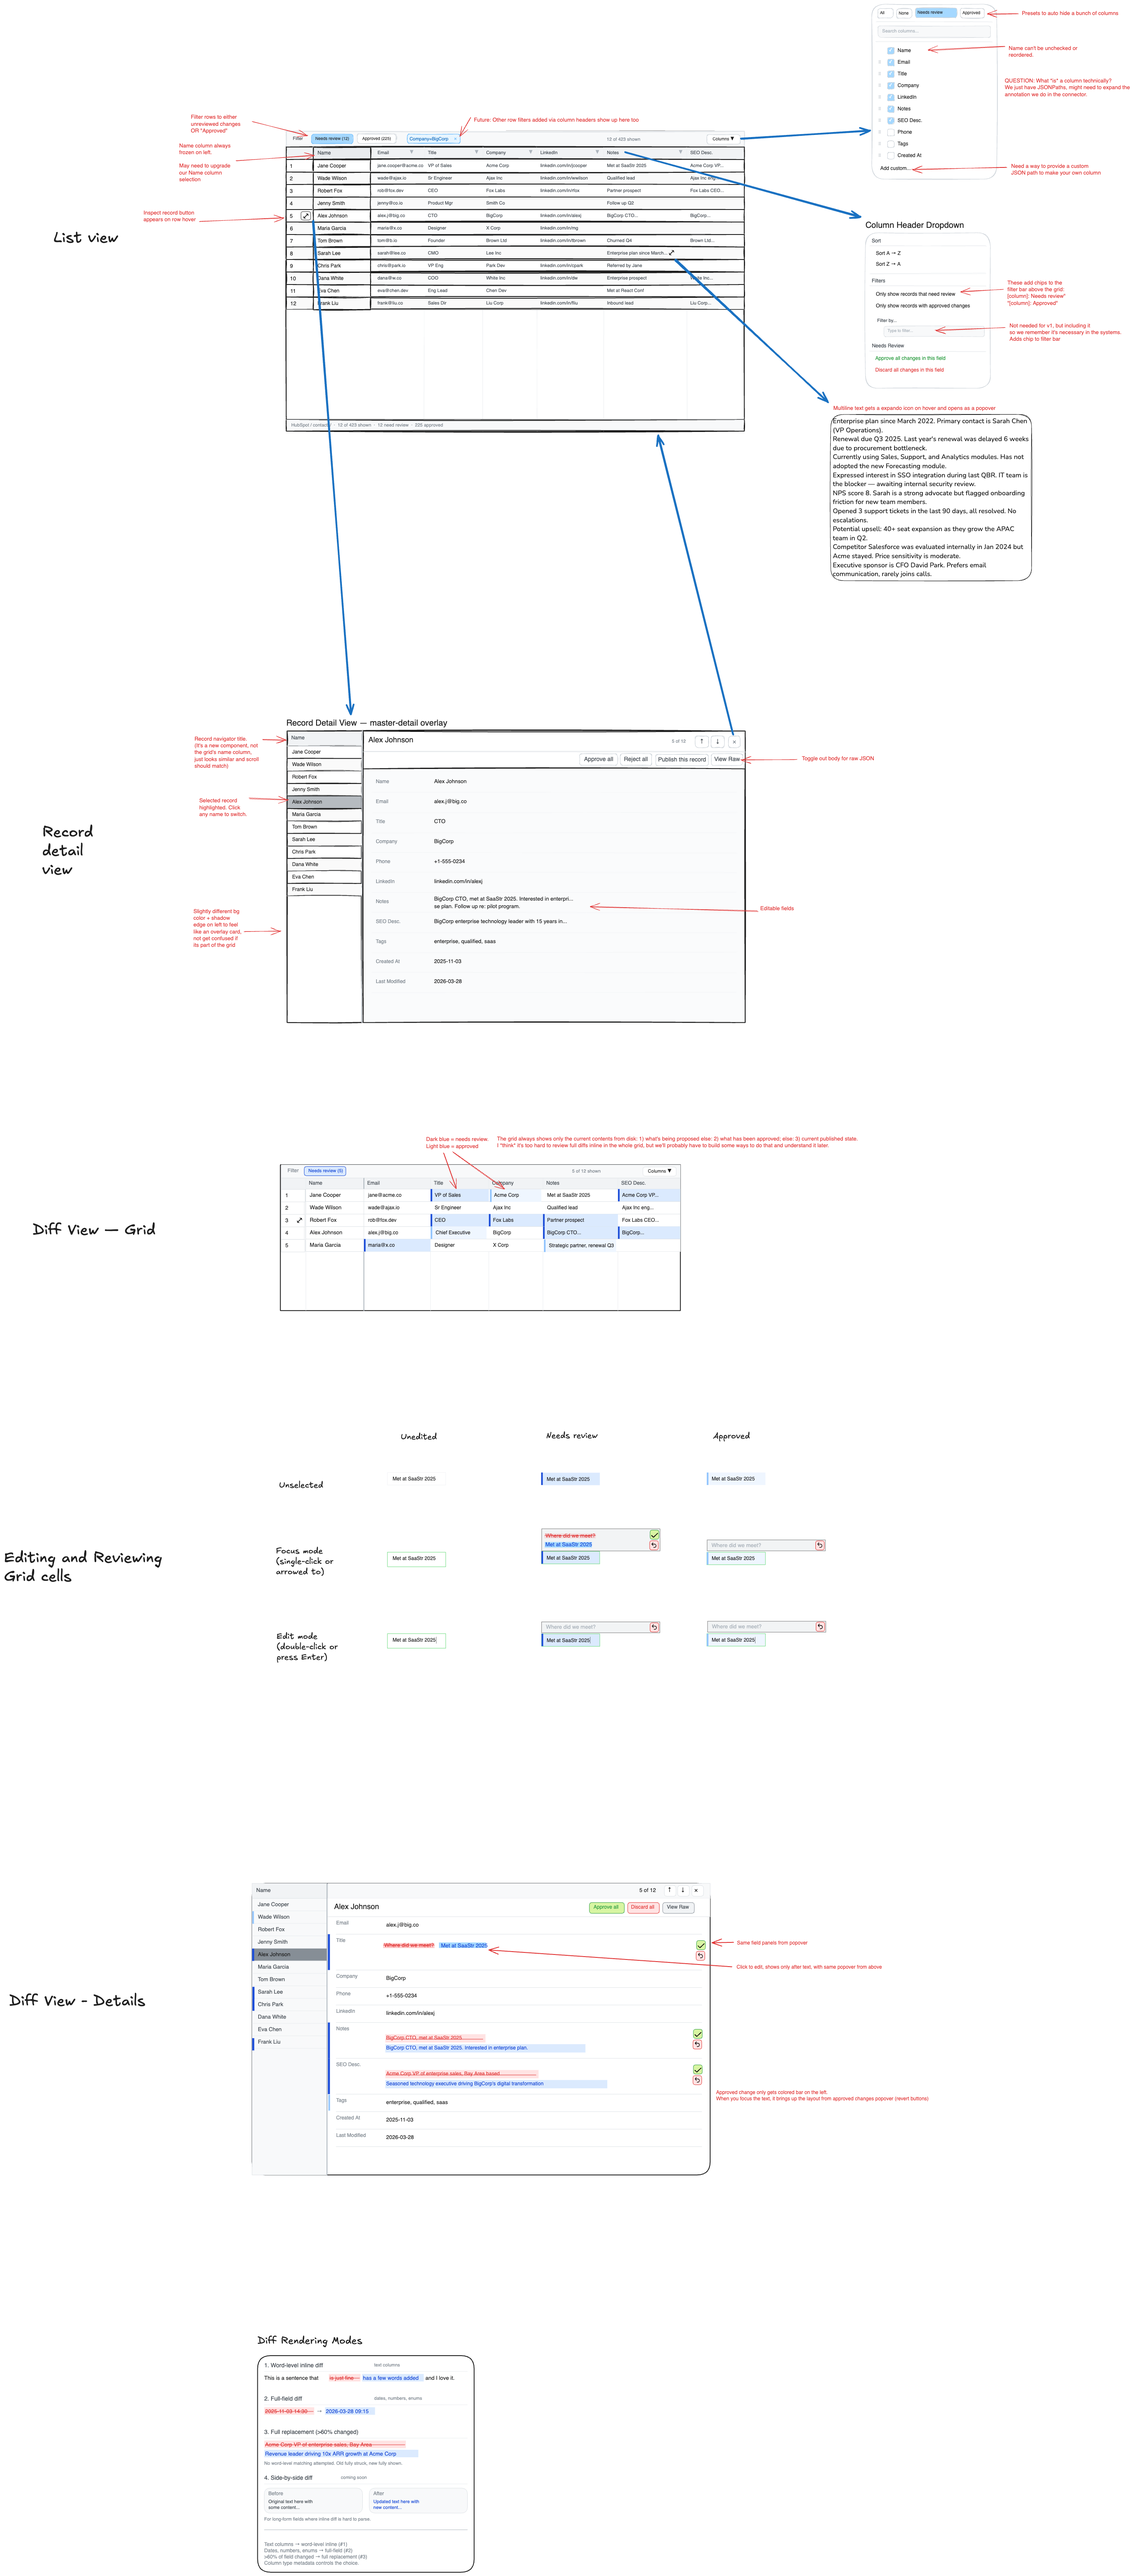
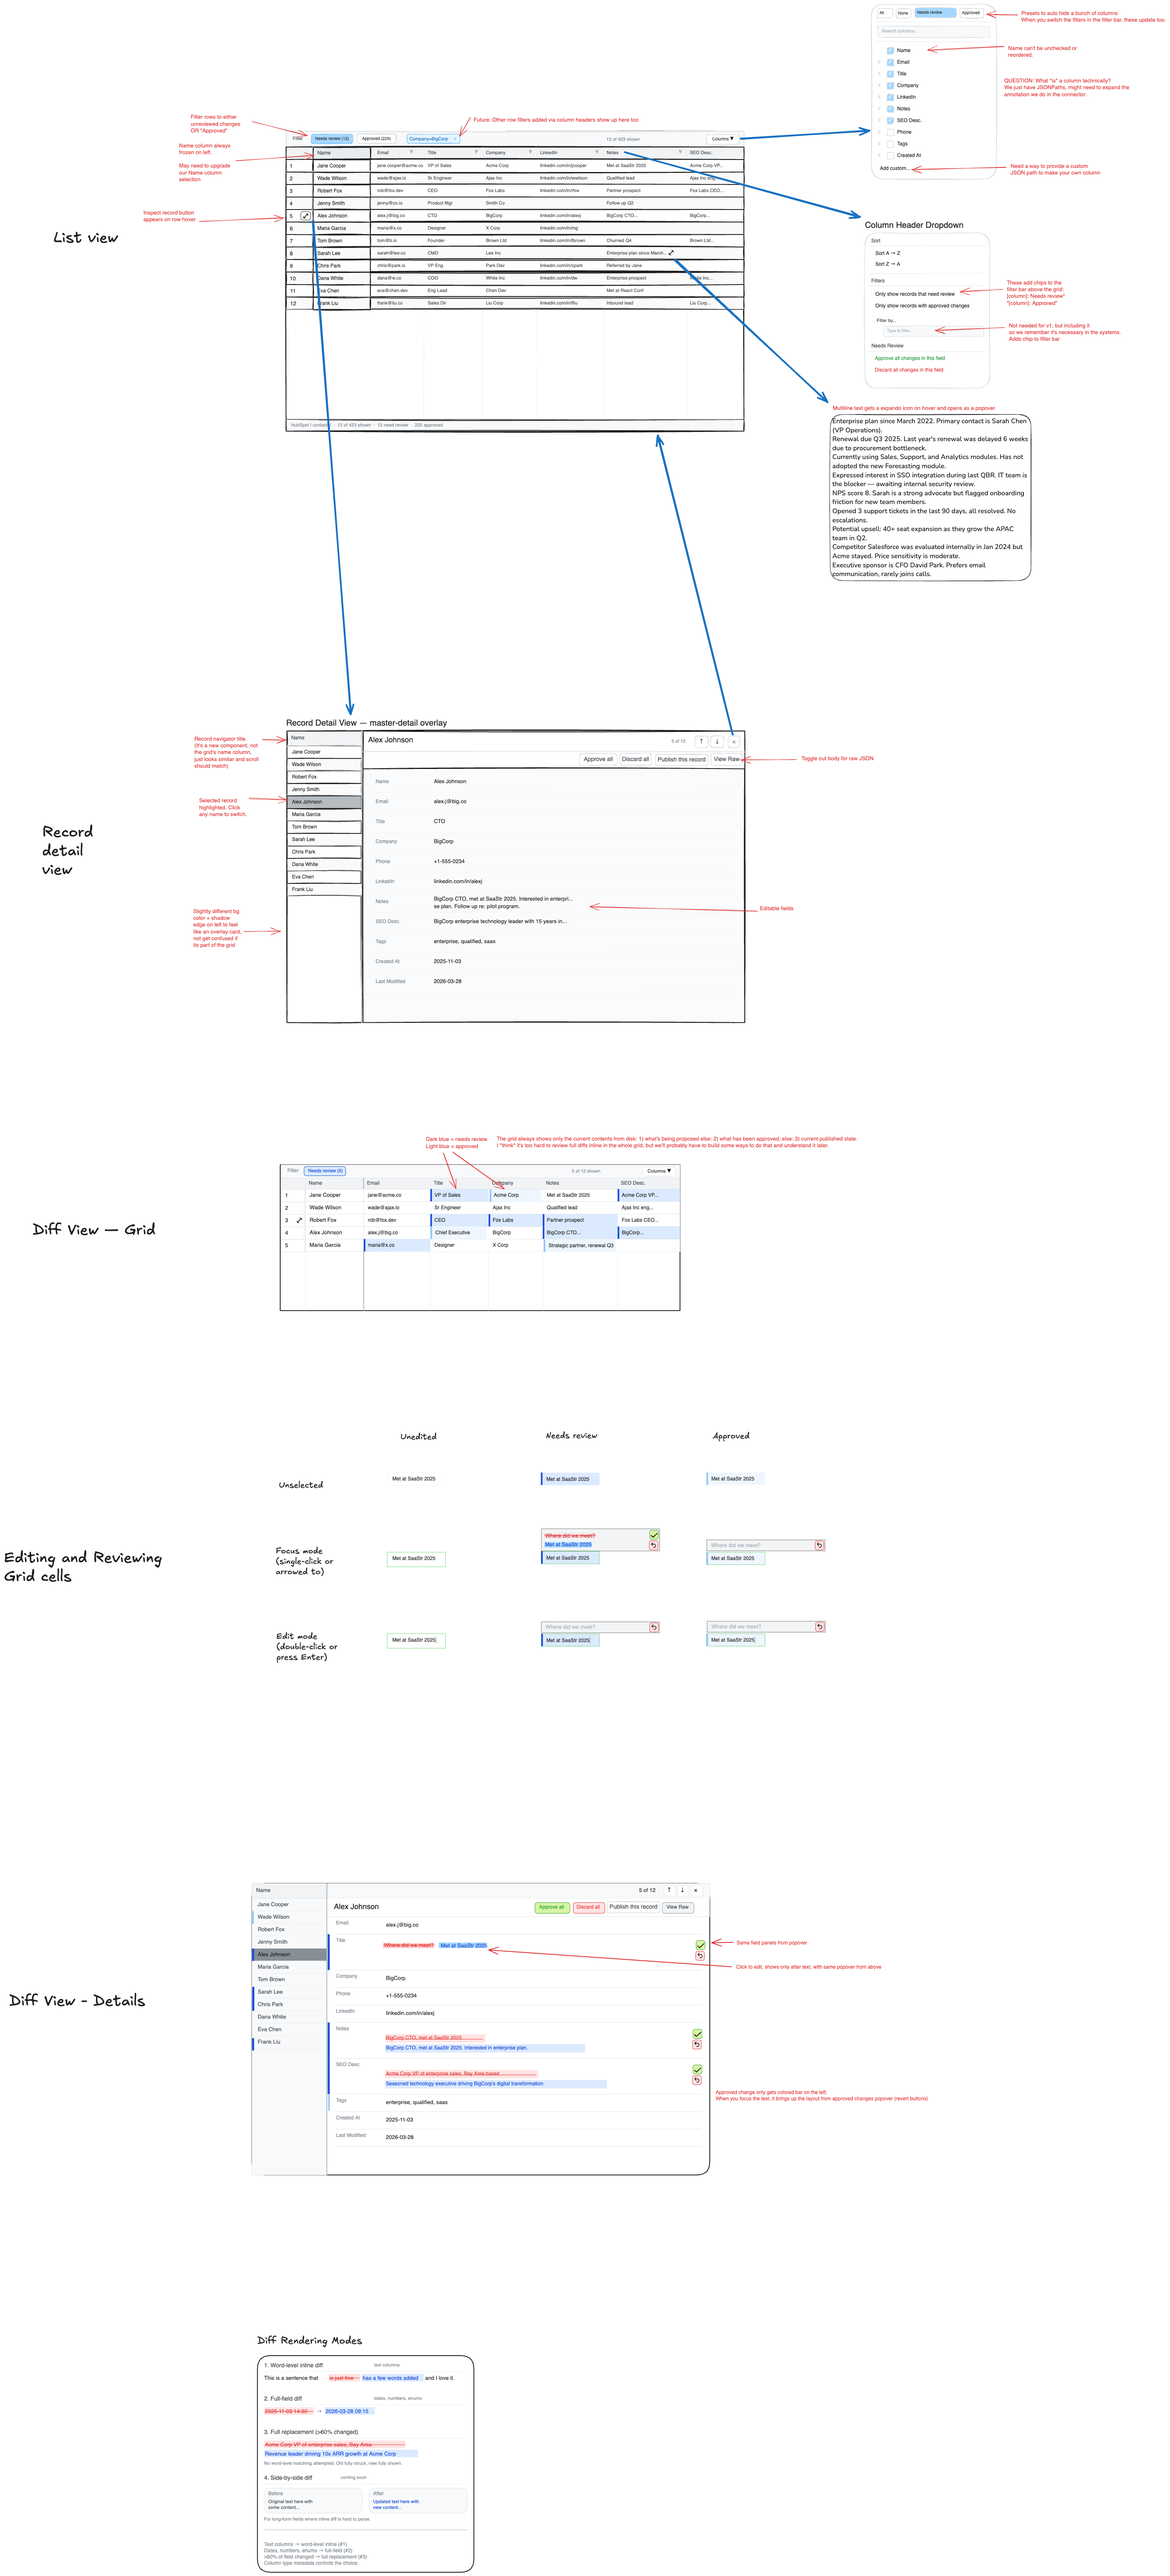
[desktop, UI] Move inspect button
## Motivation

Button was in the name column, but lets move it more to the left.

## Change description

- Replace button

## Checklists

- [x] Security impact of change has been considered
- Data Incident Risk: 
    - [x] None
    - [ ] Low
    - [ ] High

diff --git a/scratch-desktop/src/renderer/src/pages/workspace/FolderDataGrid.tsx b/scratch-desktop/src/renderer/src/pages/workspace/FolderDataGrid.tsx
@@ -1,7 +1,6 @@
 import DataEditor, {
   GridCellKind,
   GridColumnMenuIcon,
-  type CellClickedEventArgs,
   type DataEditorRef,
   type DrawCellCallback,
   type EditableGridCell,
@@ -12,9 +11,11 @@ import DataEditor, {
   type Rectangle,
 } from '@glideapps/glide-data-grid';
 import '@glideapps/glide-data-grid/dist/index.css';
-import { Box, Group, Loader, Portal, Stack } from '@mantine/core';
+import { Box, Group, Loader, Portal, Stack, UnstyledButton } from '@mantine/core';
+import { Maximize2 } from 'lucide-react';
 import { memo, useCallback, useEffect, useMemo, useRef, useState } from 'react';
 import { Text12Medium, Text12Regular, Text13Regular } from '../../components/base/text';
+import { StyledLucideIcon } from '../../components/icons/StyledLucideIcon';
 import { FieldValuePanel, type FieldValueDiffKind } from './FieldValuePanel';
 import { FolderGridHeaderMenu } from './FolderGridHeaderMenu';
 import { RecordDetailView } from './RecordDetailView';
@@ -75,6 +76,8 @@ interface FolderDataGridProps {
 // ── Constants ──
 
 const PAGE_SIZE = 100;
+const ROW_MARKER_WIDTH = 88;
+const INSPECT_BUTTON_SIZE = 18;
 
 // ── Diff colours ──
 
@@ -129,23 +132,6 @@ function editableCellToString(cell: EditableGridCell): string {
     default:
       return '';
   }
-}
-
-function drawInspectIcon(
-  ctx: CanvasRenderingContext2D,
-  x: number,
-  y: number,
-  size: number,
-  color: string,
-  opacity = 1,
-) {
-  ctx.save();
-  ctx.globalAlpha = opacity;
-  ctx.fillStyle = color;
-  ctx.font = `${size}px sans-serif`;
-  ctx.textBaseline = 'top';
-  ctx.fillText('\u{1F50D}', x, y);
-  ctx.restore();
 }
 
 function isInsideGridEditorOverlay(target: Element): boolean {
@@ -273,10 +259,13 @@ export const FolderDataGrid = memo(function FolderDataGrid(props: FolderDataGrid
   const [gridSize, setGridSize] = useState<{ width: number; height: number } | null>(null);
   const observerRef = useRef<ResizeObserver | null>(null);
   const gridRef = useRef<DataEditorRef | null>(null);
+  const wrapperElRef = useRef<HTMLDivElement | null>(null);
   const cellPopoverRef = useRef<HTMLDivElement | null>(null);
-  const hoveredCellRef = useRef<Item | null>(null);
+  const [hoveredRowIdx, setHoveredRowIdx] = useState<number | null>(null);
+  const [inspectButtonRect, setInspectButtonRect] = useState<{ x: number; y: number; height: number } | null>(null);
 
   const wrapperRef = useCallback((el: HTMLDivElement | null) => {
+    wrapperElRef.current = el;
     if (observerRef.current) {
       observerRef.current.disconnect();
       observerRef.current = null;
@@ -335,7 +324,8 @@ export const FolderDataGrid = memo(function FolderDataGrid(props: FolderDataGrid
     setActiveFilters([]);
     setColumnWidths({});
     setDetailRowIndex(null);
-    hoveredCellRef.current = null;
+    setHoveredRowIdx(null);
+    setInspectButtonRect(null);
     setHeaderMenu(null);
     setActiveEditorDiffKind(null);
     setSchema(null);
@@ -663,7 +653,6 @@ export const FolderDataGrid = memo(function FolderDataGrid(props: FolderDataGrid
   const drawCell: DrawCellCallback = useCallback(
     (args, drawContent) => {
       drawContent();
-      const hoveredCell = hoveredCellRef.current;
       const row = pagedRows[args.row] as DiffRow | undefined;
       const colId = columns[args.col]?.id;
       if (!row || !colId) {
@@ -677,63 +666,54 @@ export const FolderDataGrid = memo(function FolderDataGrid(props: FolderDataGrid
         args.ctx.fillRect(args.rect.x, args.rect.y, 3, args.rect.height);
         args.ctx.restore();
       }
-
-      if (args.col !== 0 || hoveredCell?.[0] !== args.col || hoveredCell?.[1] !== args.row) {
-        return;
-      }
-
-      drawInspectIcon(
-        args.ctx,
-        args.rect.x + args.rect.width - 12 - 6,
-        args.rect.y + (args.rect.height - 12) / 2,
-        12,
-        args.theme.textMedium ?? '#888',
-        1,
-      );
     },
     [columns, pagedRows],
   );
 
-  const onCellClicked = useCallback(([col, row]: Item, event: CellClickedEventArgs) => {
+  const onCellClicked = useCallback(() => {
     setHeaderMenu(null);
-    if (col !== 0) return;
-    const iconZoneWidth = 12 + 6 * 2;
-    if (event.localEventX >= event.bounds.width - iconZoneWidth) {
-      setDetailRowIndex(row);
-    }
   }, []);
 
-  const setHoveredCellWithDamage = useCallback((next: Item | null) => {
-    const prev = hoveredCellRef.current;
-    const isSameCell = prev?.[0] === next?.[0] && prev?.[1] === next?.[1];
-    if (isSameCell) {
+  const recomputeInspectRect = useCallback((rowIdx: number | null) => {
+    if (rowIdx === null) {
+      setInspectButtonRect(null);
       return;
     }
-
-    hoveredCellRef.current = next;
-
-    const damageCells: { cell: Item }[] = [];
-    if (prev?.[0] === 0) {
-      damageCells.push({ cell: prev });
+    // Use col 0 (first data column) for reliable bounds; the marker column lives
+    // immediately to its left, so we anchor the button off col 0's left edge.
+    const bounds = gridRef.current?.getBounds(0, rowIdx);
+    const wrapperRect = wrapperElRef.current?.getBoundingClientRect();
+    if (!bounds || bounds.height === 0 || !wrapperRect) {
+      setInspectButtonRect(null);
+      return;
     }
-    if (next?.[0] === 0) {
-      damageCells.push({ cell: next });
-    }
-    if (damageCells.length > 0) {
-      gridRef.current?.updateCells(damageCells);
-    }
+    // getBounds returns viewport-relative coordinates, but the button is
+    // absolutely positioned inside the wrapper, so subtract the wrapper origin.
+    setInspectButtonRect({
+      x: bounds.x - wrapperRect.left,
+      y: bounds.y - wrapperRect.top,
+      height: bounds.height,
+    });
   }, []);
 
   const onMouseMove = useCallback(
     (args: GridMouseEventArgs) => {
-      setHoveredCellWithDamage(args.kind === 'cell' ? args.location : null);
+      const nextRow = args.kind === 'cell' ? args.location[1] : null;
+      setHoveredRowIdx((prev) => (prev === nextRow ? prev : nextRow));
+      recomputeInspectRect(nextRow);
     },
-    [setHoveredCellWithDamage],
+    [recomputeInspectRect],
   );
 
   const onGridMouseLeave = useCallback(() => {
-    setHoveredCellWithDamage(null);
-  }, [setHoveredCellWithDamage]);
+    setHoveredRowIdx(null);
+    setInspectButtonRect(null);
+  }, []);
+
+  const onVisibleRegionChanged = useCallback(() => {
+    // Reposition the inspect button as the user scrolls.
+    recomputeInspectRect(hoveredRowIdx);
+  }, [recomputeInspectRect, hoveredRowIdx]);
 
   const onCellActivated = useCallback(
     ([col, row]: Item) => {
@@ -925,6 +905,7 @@ export const FolderDataGrid = memo(function FolderDataGrid(props: FolderDataGrid
                 onHeaderMenuClick={onHeaderMenuClick}
                 onCellClicked={onCellClicked}
                 onMouseMove={onMouseMove}
+                onVisibleRegionChanged={onVisibleRegionChanged}
                 onCellActivated={onCellActivated}
                 onCellEdited={onCellEdited}
                 onFinishedEditing={onFinishedEditing}
@@ -933,8 +914,38 @@ export const FolderDataGrid = memo(function FolderDataGrid(props: FolderDataGrid
                 onColumnResize={onColumnResize}
                 drawCell={drawCell}
                 rowMarkers="number"
+                rowMarkerWidth={ROW_MARKER_WIDTH}
                 freezeColumns={1}
               />
+            )}
+            {inspectButtonRect && hoveredRowIdx !== null && (
+              <UnstyledButton
+                onMouseDown={(e) => e.preventDefault()}
+                onClick={(e) => {
+                  e.currentTarget.blur();
+                  if (hoveredRowIdx !== null) setDetailRowIndex(hoveredRowIdx);
+                }}
+                tabIndex={-1}
+                aria-label="Open record detail"
+                style={{
+                  position: 'absolute',
+                  left: inspectButtonRect.x - INSPECT_BUTTON_SIZE - 6,
+                  top: inspectButtonRect.y + (inspectButtonRect.height - INSPECT_BUTTON_SIZE) / 2,
+                  width: INSPECT_BUTTON_SIZE,
+                  height: INSPECT_BUTTON_SIZE,
+                  display: 'flex',
+                  alignItems: 'center',
+                  justifyContent: 'center',
+                  borderRadius: 3,
+                  border: '0.5px solid var(--fg-divider)',
+                  backgroundColor: 'var(--bg-base)',
+                  cursor: 'pointer',
+                  zIndex: 3,
+                  padding: 0,
+                }}
+              >
+                <StyledLucideIcon Icon={Maximize2} size={12} c="var(--fg-muted)" strokeWidth={2} />
+              </UnstyledButton>
             )}
             <FolderGridHeaderMenu
               columnTitle={headerMenu?.columnTitle ?? ''}
